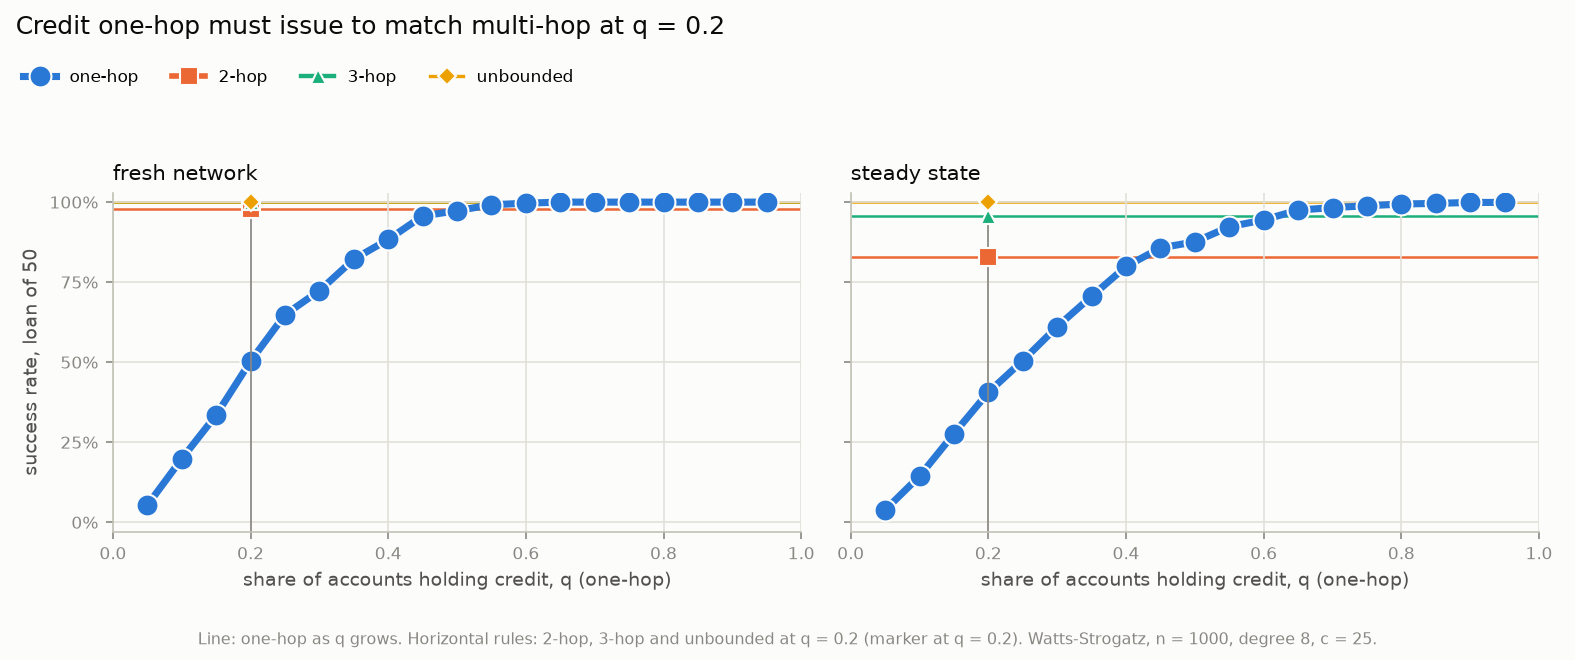
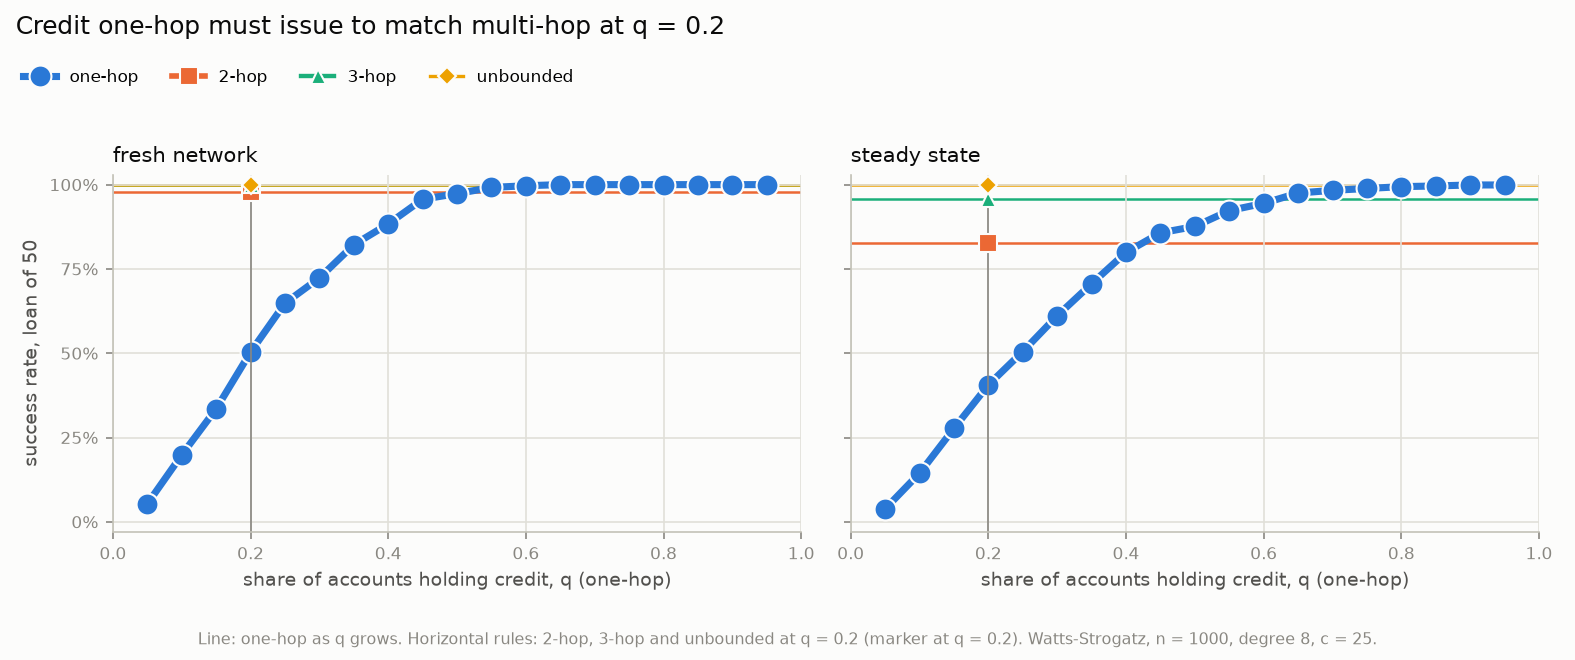
Liquidity study: Sybil constant under multi-hop, commit-on-draw; CI-26 size
Record the study's last findings in CREDIT_MODEL.md section 6 and CI-20:
multi-hop keeps the cut bound but makes attack edges from accounts
without credit count (3.3 to 7 times the extraction for the same edges),
and lines that commit on draw recover most of the pre-commitment loss
with one-hop liability. Figures re-rendered (layout only, numbers
unchanged). CI-26 now states the measured size, 24,535 bytes.

Changed region(s): [[0.0311, 0.2121, 0.9956, 0.7576], [0.0, 0.3636, 0.0622, 0.7273], [0.56, 0.6061, 0.6222, 0.7576]]

diff --git a/docs/CREDIT_INTEGRITY_ISSUES.md b/docs/CREDIT_INTEGRITY_ISSUES.md
@@ -40,8 +40,8 @@ plus dues paid; history can earn no more than dues without an accountable issuer
 | CI-18 | One APR for secured and unsecured principal: stake-secured exposure has no loss given default but pays the full risk premium. | CREDIT_MODEL.md section 5 | Open: price the premium on the unsecured share. |
 | CI-19 | The oracle's scoring policy must obey Theorem 3: no credit derived from the backing graph or from repayment counts, which fresh accounts produce at no cost. | CREDIT_MODEL.md section 4 | Reference policy done (cb9765c, `analysis/issuer_policy`): identity-gated, Bayesian PD from risk-weighted evidence, lines sized within the held budget and per-report cap; 925 simulated reports, none rejected. Open: implement it as the CRE workflow. |
 | CI-21 | The first-loss reserve is pooled. A lender attacker holding more than (1-r)/(1-f) of the pool (70% at the deployed settings) can shift part of a stress loss onto other lenders if other borrowers' defaults exhaust the reserve between its dues and its own default. Still a net loss for the attacker. | CREDIT_MODEL.md 4.1, residual case; analysis/sybil_sim | Release route closed in ce99679 (`releaseReserve` keeps all dues). Open for the defaults route: earmark the reserve behind dues in use (verified in simulation). |
-| CI-26 | `DecentralizedMicrocredit` is within 81 bytes of the EIP-170 size limit (24,495 of 24,576), so CI-17, CI-18 and the CI-21 earmark cannot land without making room. | Contract size after this round | Open: move the list and preview views to a read-only lens contract, or split credit accounting (backing, charges, dues) into its own contract behind the pool. |
-| CI-20 | Backing is one hop. Multi-hop credit-network routing would roughly double honest liquidity (analysis/liquidity: 0.41 to 0.83 steady-state success on a small-world graph) with the Sybil bound intact, but the gain comes from credit relayed through accounts without credit of their own, so distant holders would be charged for borrowers they never chose. | CREDIT_MODEL.md section 6 | Open: a product and legal decision on the liability rule before any implementation. |
+| CI-26 | `DecentralizedMicrocredit` is within 41 bytes of the EIP-170 size limit (24,535 of 24,576), so CI-17, CI-18 and the CI-21 earmark cannot land without making room. | Contract size after this round | Open: move the list and preview views to a read-only lens contract, or split credit accounting (backing, charges, dues) into its own contract behind the pool. |
+| CI-20 | Backing is one hop. Multi-hop credit-network routing would roughly double honest liquidity (analysis/liquidity: 0.41 to 0.83 steady-state success on a small-world graph) with the Sybil bound intact, but the gain comes from credit relayed through accounts without credit of their own, so distant holders would be charged for borrowers they never chose, and attack edges from accounts without credit start to count (3.3 to 7 times the extraction for the same edges). | CREDIT_MODEL.md section 6 | Open: a product and legal decision on the liability rule before any implementation. If adopted: at most 2 hops, relaying opt-in per line. Cheaper first step with one-hop liability: lines that commit on draw (0.12 to 0.50 chance to borrow 50 when holders would otherwise pre-commit evenly). |
 
 ## Closed issues
 

diff --git a/docs/CREDIT_MODEL.md b/docs/CREDIT_MODEL.md
@@ -397,14 +397,24 @@ and community graphs (1,000 accounts, 20% holding a line, trust 25 per edge, loa
   own, and a similar share is supplied by credit holders not adjacent to the borrower, who are
   charged on default for a borrower they never chose. If every intermediary must stand behind its
   hop with credit of its own, multi-hop liquidity collapses to exactly one-hop liquidity.
-- **The Sybil bound holds in every regime.** Attacker extraction equals the cut and is identical for
-  1 and for 1,000 Sybil accounts, at most the attack edges times the trust per edge.
+- **The Sybil bound holds in every regime, with a larger constant under multi-hop.** Attacker
+  extraction equals the cut and is identical for 1 and for 1,000 Sybil accounts, at most the
+  attack edges times the trust per edge. Under one hop only attack edges from credit holders
+  count; under multi-hop an edge from an account without credit is worth its full trust too, so
+  the same attack edges take 3.3 to 7 times as much (random endpoints, 20 or more edges), most of
+  it charged to holders who never trusted a Sybil.
+- **When credit is committed matters as much as hop count.** The contract commits at `back`. If
+  holders split their credit evenly ahead of demand, the chance to borrow 50 falls from 0.50 to
+  0.12. Lines that commit on draw (a `back` and a borrow in one transaction) recover that with
+  one-hop liability unchanged.
 
 So multi-hop routing is a liquidity gain bought with a different liability rule: holders must
 accept charges for borrowers reached through intermediaries they trust. That is a product and
 legal decision as much as a technical one (path selection on-chain or a routing proof, roughly
 1.5 to 8 storage slots more per routed loan). The one-hop rule keeps every charge on an account
-that chose the borrower (CI-20).
+that chose the borrower (CI-20). If multi-hop is adopted, the study recommends at most two hops,
+with relaying a permission each source grants per line, so a holder that does not opt in keeps
+one-hop semantics.
 
 ## 7. Lender fairness
 

diff --git a/analysis/liquidity/results/summary.md b/analysis/liquidity/results/summary.md
@@ -176,4 +176,4 @@ m Sybils (no credit, unlimited trust among themselves) behind g attack edges of 
 | SBM, credit in half the blocks | no credit | 20 | 500 | 0 | 0 | 250 | 425.0 | 500 | 0 | 20,000 | 0% |
 | SBM, credit in half the blocks | no credit | 50 | 1,250 | 0 | 0 | 600 | 1,050.0 | 1,250 | 0 | 20,000 | 0% |
 
-Runtime: 231 s.
+Runtime: 202 s.
